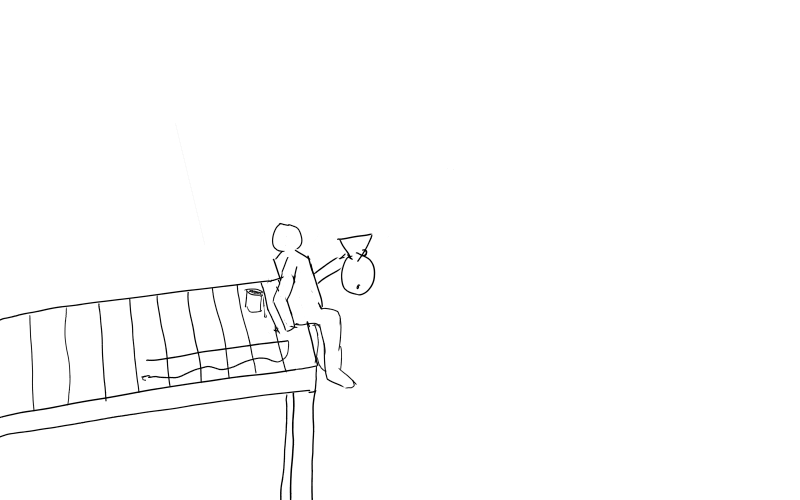
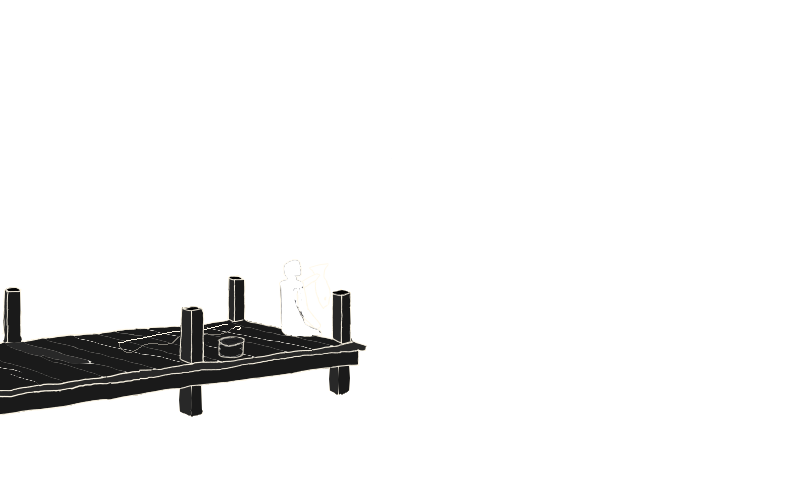
added cod, updated fish graphics, give up button

Changed region(s): [[0.0, 0.45, 0.4688, 1.0]]

diff --git a/things/fish.html b/things/fish.html
@@ -53,6 +53,12 @@ body { font-family: sans-serif; font-size: 1.25rem; display: flex; flex-directio
 #progress { width: 320px; height: 6px; background: #16161d; border: 1px solid #6b6a68; display: none; margin: 1rem; }
 #progress-fill { height: 100%; width: 0%; background: #4caf50; }
 
+#quit-reel { margin: 1rem; padding: 6px 8px; cursor: pointer; border-radius: 4px;
+  border: 1px solid #ff4d4d; color: #ff4d4d; background: #16161d; font-size: 1rem; display: none; }
+#quit-reel:hover { background: #ff4d4d; color: #16161d; transition: 0.3s; }
+
+#mid-stuff { display:flex; flex-direction: row;}
+
 /* --------------------- caught list  */
 .fish-list { margin-top: 4px; color: #a9a8a4; font-size:0.85rem; }
 #total-counter { margin: 10px; }
@@ -79,7 +85,11 @@ body { font-family: sans-serif; font-size: 1.25rem; display: flex; flex-directio
 <div id="img-div"><img id="scene-img" src="/assets/idle.png" alt="scene of person fishing" width="800" height="500"></div>
 
 <div id="message">press cast to start</div>
+
+<div id="mid-stuff">
 <button id="cast">cast</button>
+<button id="quit-reel">give up</button>
+</div>
 
 <div id="reel-track">
   <div id="reel-target"></div>
@@ -113,7 +123,7 @@ for (let i = 0; i < 300; i++) {
 // --------------------- config 
 const DIFFICULTIES = {
   easy: {
-    fish: ["bass","trout","minnow","tetra","betta","catfish","herring","shrimp","clams","mussels","scallops","oysters","prawns","clownfish"],
+    fish: ["cod","bass","trout","minnow","tetra","betta","catfish","herring","shrimp","clams","mussels","scallops","oysters","prawns","clownfish"],
     waitMin: 1200, waitMax: 2800, cursorStep: 2, targetWidth: 90, progressPerHit: 28, progressLostPerMiss: 8
   },
   medium: {
@@ -153,6 +163,7 @@ const progressFill = document.getElementById("progress-fill");
 const reelTrackEl = document.getElementById("reel-track");
 const progressEl = document.getElementById("progress");
 const sceneImg = document.getElementById("scene-img");
+const quitBtn = document.getElementById("quit-reel");
 
 // --------------------- state
 let state = "idle"; // idle | waiting | reeling
@@ -199,6 +210,7 @@ function bite() {
   progressFill.style.background = "#4c4";
   reelTrackEl.style.display = "block";
   progressEl.style.display = "block";
+  quitBtn.style.display = "inline-block";
 
   moveTarget();
   moveTimer = setInterval(moveCursor, TICK_TIME);
@@ -274,13 +286,36 @@ function fishCaught() {
   }
 
   sceneImg.src = STATE_IMAGES.caught;
-  setTimeout(() => { sceneImg.src = STATE_IMAGES.idle; }, 1500);
+  setTimeout(() => { sceneImg.src = STATE_IMAGES.idle; },2500);
 
   updateCaughtList();
   btn.disabled = false;
   btn.textContent = "cast";
   difficultyButtons.forEach(b => b.disabled = false);
+  quitBtn.style.display = "none";
 }
+
+// --------------------- quit reeling
+function quitReel() {
+  if (state !== "reeling") return;
+  clearInterval(moveTimer);
+  state = "idle";
+  reelTrackEl.style.display = "none";
+  progressEl.style.display = "none";
+  quitBtn.style.display = "none";
+  progress = 0;
+  progressFill.style.width = "0%";
+  messageEl.textContent = "the fish got away...";
+  sceneImg.src = STATE_IMAGES.idle;
+  btn.disabled = false;
+  btn.textContent = "cast";
+  difficultyButtons.forEach(b => b.disabled = false);
+}
+quitBtn.addEventListener("click", quitReel);
+document.addEventListener("keydown", e => {
+  if (e.code === "Escape") quitReel();
+});
+
 
 function updateCaughtList() {
   let total = 0, totalPossible = 0, diffHTML = "";
